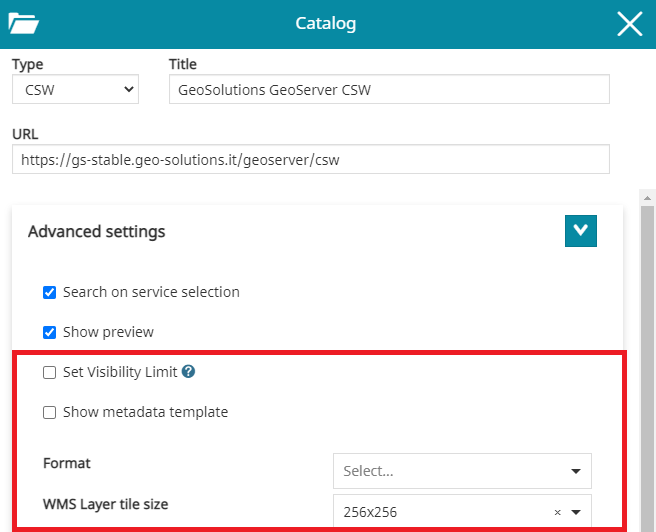
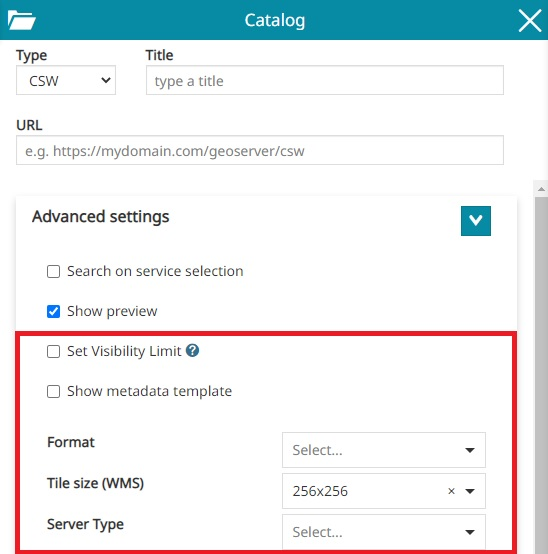
9057_update

diff --git a/docs/user-guide/catalog.md b/docs/user-guide/catalog.md
@@ -91,6 +91,11 @@ In **general settings of**  CSW service the user can specify the title to assign
 
 * *Layer tile size*: it represents tile size (width and height) to be used for tiles of all layers added to the map from the catalog source (`256x256` or `512x512`). For layers already loaded on the map, it is possible to change the tile size through the [Layer Settings](https://mapstore.readthedocs.io/en/latest/user-guide/layer-settings/#display) tool as usual.
 
+* *Server Type*: to choose the type of server from which the url of the entered CSW service comes. The options are two: `Geoserver` or `No Vendor`which can be mapproxy, mapserver or other.
+
+!!! note
+    If set on **No Vendor** then *TILED* query parameter, for all layers added to the map from this source, is not sent to the remote csw server, and the `tiled` and `localizedLayerStyles` options are hidden in the layer parameters.
+
 * *Set Visibility Limit*: if checked and scale limits present in the WMS Capabilities (eg. MinScaleDenominator and/or MaxScaleDenominator), these will be automatically applied to the layer settings when a layer is added to the map from this source.
 
 * *Show metadata template*: this can be enabled when the user wants to insert in the layer description a text with metadata information
@@ -219,6 +224,11 @@ Enabling that option, all layers added to the map from this catalog source will 
     In case of WMS services, the list of available formats is retrieved from the WMS server
 
 * *Layer tile size*: it represents tile size (width and height) to be used for tiles of all layers added to the map from the catalog source (`256x256` or `512x512`). For layers already loaded on the map, it is possible to change the tile size through the [Layer Settings](https://mapstore.readthedocs.io/en/latest/user-guide/layer-settings/#display) tool as usual.
+
+* *Server Type*: to choose the type of server from which the url of the entered CSW service comes. The options are two: `Geoserver` or `No Vendor`which can be mapproxy, mapserver or other.
+
+!!! note
+    If set on **No Vendor** then *TILED* query parameter, for all layers added to the map from this source, is not sent to the remote wms server, and the `tiled` and `localizedLayerStyles` options are hidden in the layer parameters.
 
 * *Domain aliases*: available only for WMS catalogs type. This option is used to improve the performances of the application for tiled layer requests when multiple domains can be defined server side for the configured catalog source in MapStore (domain sharding). The user can configure multiple URLs referring to the same WMS service through the **Add alias** <img src = "../img/button/++.jpg" Button = "ms-docbutton" /> button. Useful information about other kind of performance improvements can be found in the [MapStore online training documentation](https://training.mapstore.geosolutionsgroup.com/administration/best.html#performances).
 
